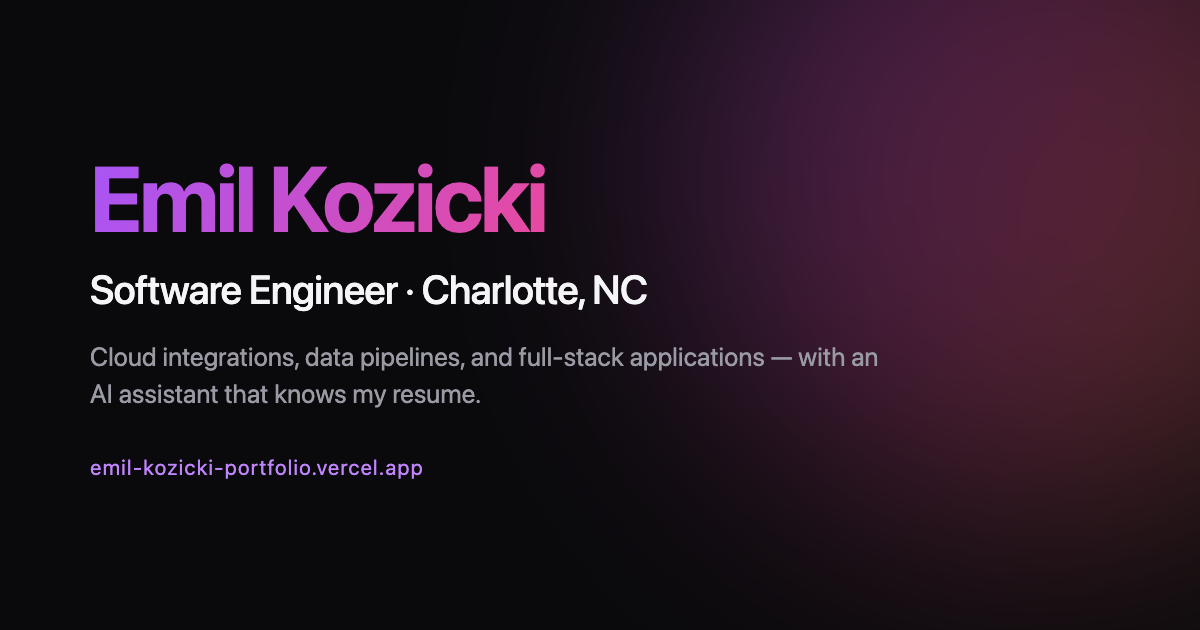
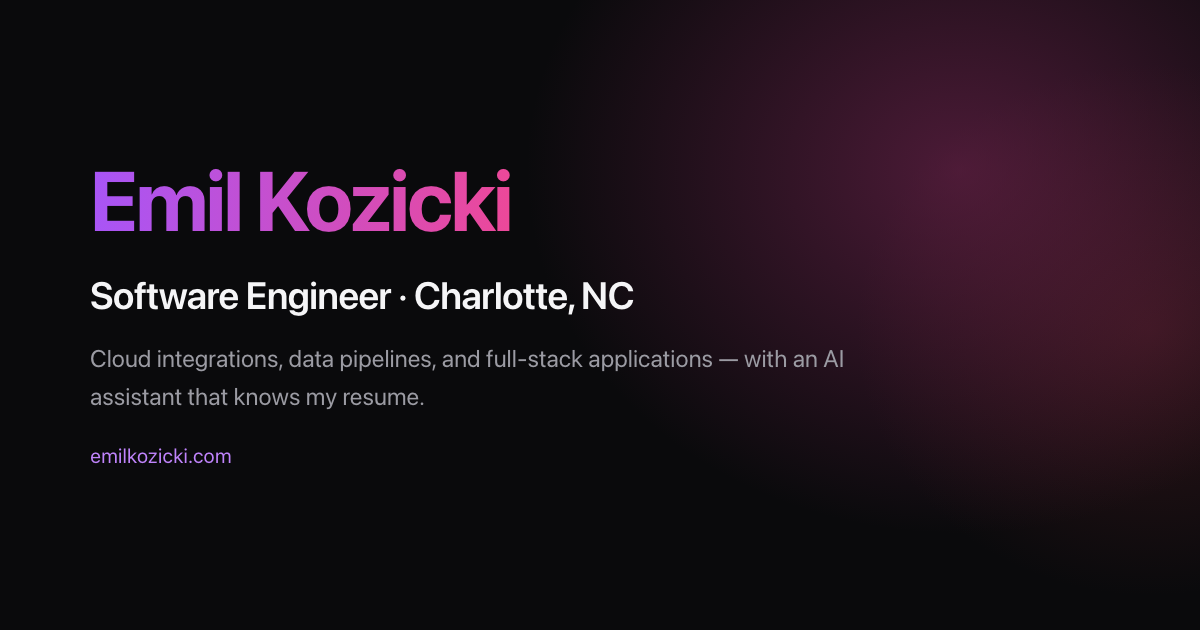
Update social preview card to emilkozicki.com

diff --git a/frontend/index.html b/frontend/index.html
@@ -9,7 +9,7 @@
     <meta property="og:type" content="website" />
     <meta property="og:title" content="Emil Kozicki — Software Engineer" />
     <meta property="og:description" content="Software engineer in Charlotte, NC building cloud integrations, data pipelines, and full-stack applications." />
-    <meta property="og:image" content="https://emilkozicki.com/og-image.png" />
+    <meta property="og:image" content="https://emilkozicki.com/og-image.png?v=2" />
     <meta property="og:url" content="https://emilkozicki.com" />
     <meta name="twitter:card" content="summary_large_image" />
     <meta property="og:image:alt" content="Emil Kozicki — Software Engineer" />
